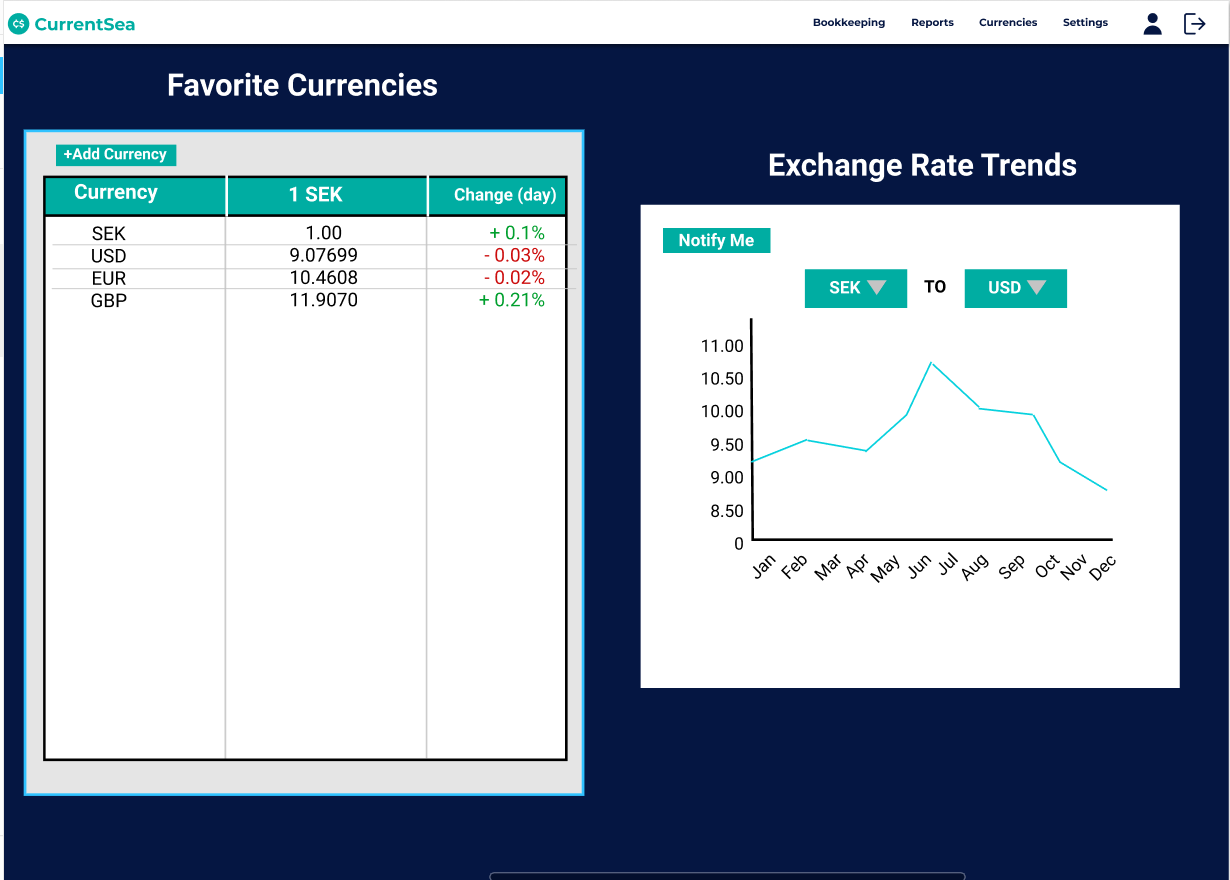
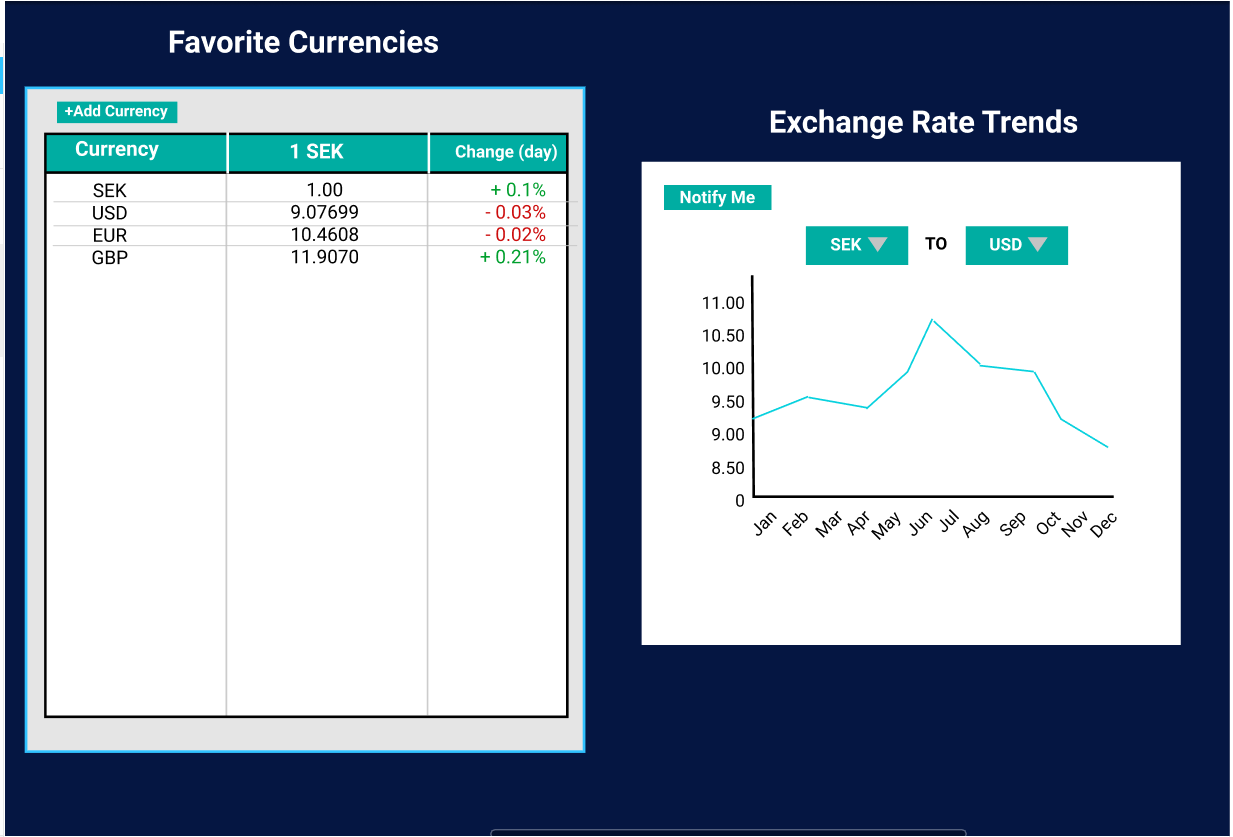
Small updates

diff --git a/current-sea-front/src/Currencies/Currencies.js b/current-sea-front/src/Currencies/Currencies.js
@@ -158,8 +158,9 @@ export default class Currencies extends React.Component {
         return (
 
             <div class="body">
+            <Header />
+            <div class="bodyImage"></div>
                 {/*
-                <Header />
                 <h1 align="center">Currencies</h1>
                 <div>
                     <div>

diff --git a/current-sea-front/src/Currencies/currencies.css b/current-sea-front/src/Currencies/currencies.css
@@ -1,4 +1,5 @@
-.body {
+.bodyImage {
+    top:100px;
     background-image: url("Capture.PNG");
     height: 1000px;
     background-size: cover 
